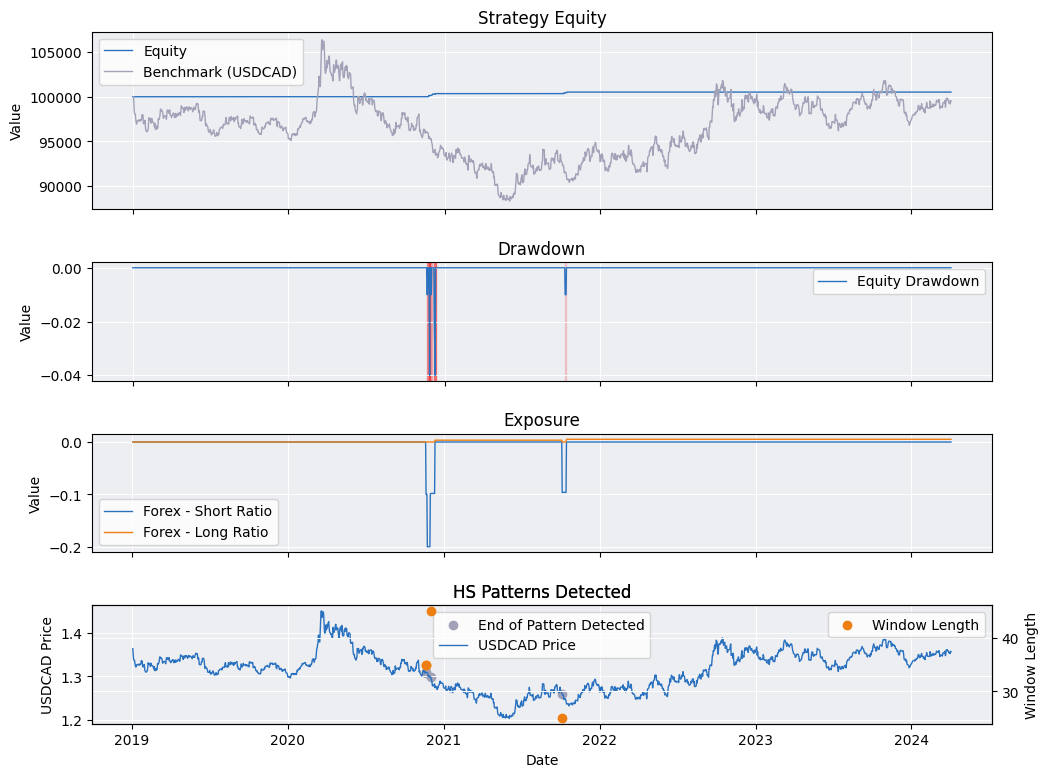
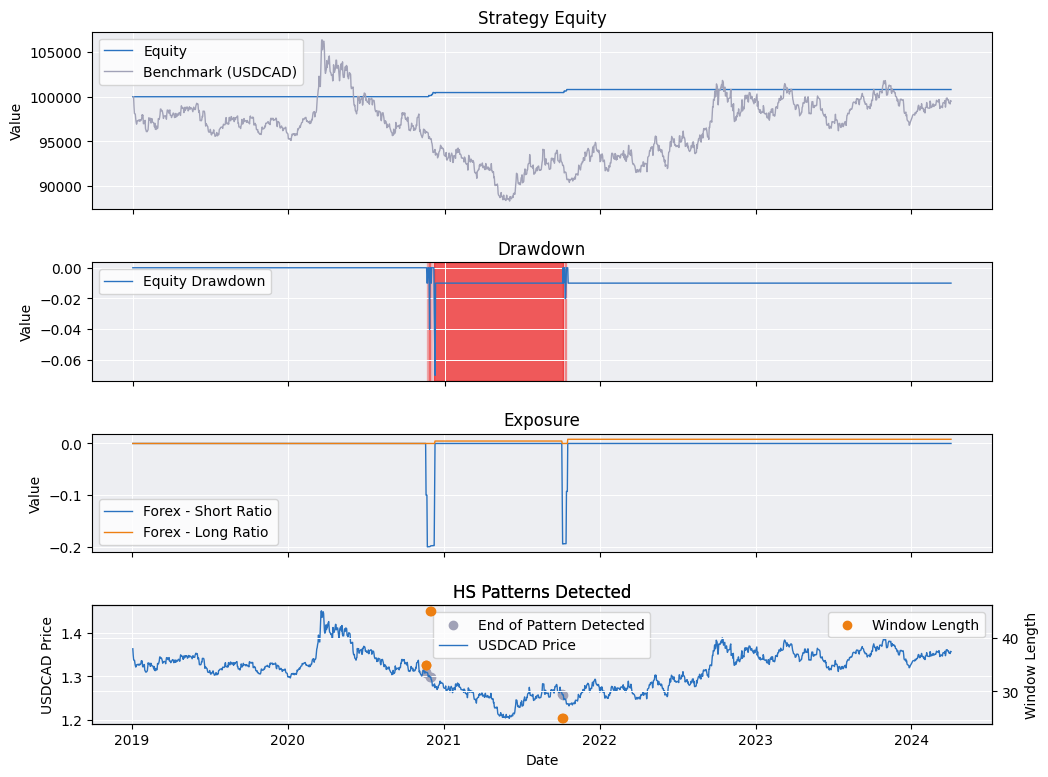
Increase Pattern Detection Trades

diff --git a/06 Applied Machine Learning/17 Head Shoulders Pattern Matching with CNN and DTW (Hard)/main.py b/06 Applied Machine Learning/17 Head Shoulders Pattern Matching with CNN and DTW (Hard)/main.py
@@ -24,8 +24,8 @@ class CNNPatternDetectionAlgorithm(QCAlgorithm):
         self._max_size = self.get_parameter('max_size', 100)
         self._step_size = self.get_parameter('step_size', 10)
         self._confidence_threshold = self.get_parameter(
-            'confidence_threshold', 0.8
-        )  # 0.8 => 80%
+            'confidence_threshold', 0.5
+        )  # 0.5 => 50%
         self._holding_period = timedelta(
             self.get_parameter('holding_period', 10)
         )
